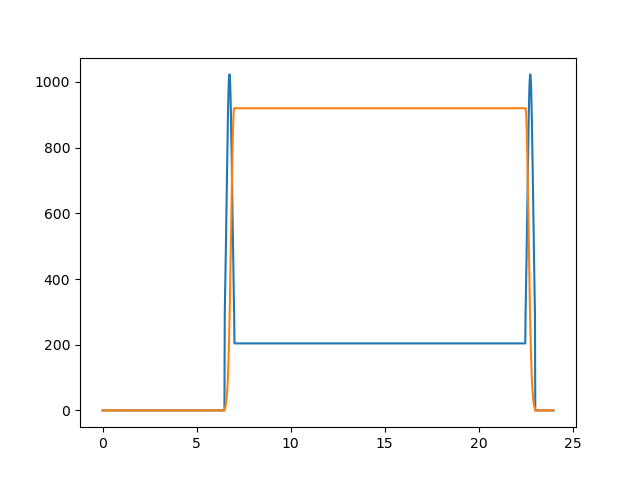
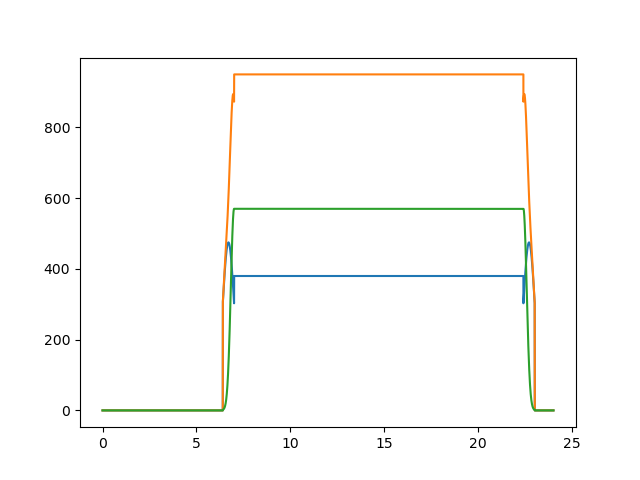
asd

diff --git a/sketch_feb09a/test_graph.py b/sketch_feb09a/test_graph.py
@@ -2,75 +2,80 @@ import math
 import numpy as np 
 import matplotlib.pyplot as plt
 
-power_output_a = []
-power_output_b = []
-x_axis = []
-
-with open("sim.txt") as f:
-    lines = f.readlines()
-    lines = [ x.replace("\n", '').split(' ') for x in lines]
-    print(lines)
-    x_axis = [ (float(x[0])/(60*60)) for x in lines ]
-    power_output_a = [ float(x[1]) for x in lines ]
-    power_output_b = [ float(x[2]) for x in lines ]
-# start = 0
-# stop = 24
-# step = 0.001
-
-# change_period = 0.5
-# cahnge_factor = change_period/10
-# day_factor_a = 0.2
-# day_factor_b = 0.9
-
-# sunrise_end = 7
-# sunrise_start = sunrise_end - change_period
-
-# sunset_end = 23
-# sunset_start = sunset_end - change_period
-
 # power_output_a = []
 # power_output_b = []
 # x_axis = []
 
-# power_min = 0
-# power_max = 1023
-
-# for x in np.arange(start, stop, step):
+# with open("sim.txt") as f:
+#     lines = f.readlines()
+#     lines = [ x.replace("\n", '').split(' ') for x in lines]
+#     print(lines)
+#     x_axis = [ (float(x[0])/(60*60)) for x in lines ]
+#     power_output_a = [ float(x[1]) for x in lines ]
+#     power_output_b = [ float(x[2]) for x in lines ]
     
-#     x_axis.append(x)
-    
-#     # generate sunrise
-#     if(x >= sunrise_start and x <= sunrise_end):
-#         pass
-#         x_local = (x - sunrise_start) 
-#         x_local_pow_a = change_period/2 - x_local
-#         power_output_a.append((power_max-power_min) * math.pow(math.e, (-(x_local_pow_a*x_local_pow_a)/cahnge_factor)))
-        
-#         x_local_pow_b = x_local - change_period
-#         power_output_b.append((power_max-power_min) * day_factor_b * math.pow(math.e, (-(x_local_pow_b*x_local_pow_b)/cahnge_factor)))
-        
-#     # generate sunset
-#     elif(x >= sunset_start and x <= sunset_end):
-#         pass
-#         x_local = (x - sunset_start) 
-#         x_local_pow_a = change_period/2 - x_local
-#         power_output_a.append((power_max-power_min) * math.pow(math.e, (-(x_local_pow_a*x_local_pow_a)/cahnge_factor)))
-        
-#         x_local_pow_b = x_local
-#         power_output_b.append((power_max-power_min) * day_factor_b * math.pow(math.e, (-(x_local_pow_b*x_local_pow_b)/cahnge_factor)))
+start = 0
+stop = 24
+step = 0.001
 
-#     # generate evning
-#     elif(x >= sunrise_start and x <= sunset_end):
-#         pass
-#         power_output_a.append((power_max-power_min)*day_factor_a)
-#         power_output_b.append((power_max-power_min)*day_factor_b)
-#     # generate night
-#     elif(True):
-#         pass
-#         power_output_a.append(power_min)
-#         power_output_b.append(power_min)
+change_period = 0.6
+cahnge_factor_a = change_period/3
+cahnge_factor_b = change_period/10
+day_factor_a = 0.4
+day_factor_b = 0.6
+sunrise_factor_a = 0.5
+
+sunrise_end = 7
+sunrise_start = sunrise_end - change_period
+
+sunset_end = 23
+sunset_start = sunset_end - change_period
+
+power_output_a = []
+power_output_b = []
+x_axis = []
+
+power_min = 0
+power_max = 950
+
+for x in np.arange(start, stop, step):
+    
+    x_axis.append(x)
+    
+    # generate sunrise
+    if(x >= sunrise_start and x <= sunrise_end):
+        pass
+        x_local = (x - sunrise_start) 
+        x_local_pow_a = change_period/2 - x_local
+        power_output_a.append((power_max-power_min) * (sunrise_factor_a) * math.pow(math.e, (-(x_local_pow_a*x_local_pow_a)/cahnge_factor_a)))
+        
+        x_local_pow_b = x_local - change_period
+        power_output_b.append((power_max-power_min) * day_factor_b * math.pow(math.e, (-(x_local_pow_b*x_local_pow_b)/cahnge_factor_b)))
+        
+    # generate sunset
+    elif(x >= sunset_start and x <= sunset_end):
+        pass
+        x_local = (x - sunset_start) 
+        x_local_pow_a = change_period/2 - x_local
+        power_output_a.append((power_max-power_min) * (sunrise_factor_a) * math.pow(math.e, (-(x_local_pow_a*x_local_pow_a)/cahnge_factor_a)))
+        
+        x_local_pow_b = x_local
+        power_output_b.append((power_max-power_min) * day_factor_b * math.pow(math.e, (-(x_local_pow_b*x_local_pow_b)/cahnge_factor_b)))
+
+    # generate evning
+    elif(x >= sunrise_start and x <= sunset_end):
+        pass
+        power_output_a.append((power_max-power_min)*day_factor_a)
+        power_output_b.append((power_max-power_min)*day_factor_b)
+    # generate night
+    elif(True):
+        pass
+        power_output_a.append(power_min)
+        power_output_b.append(power_min)
 
 # # print(power_output_a)
+sum1 = [x+y for x, y in zip(power_output_a, power_output_b)]
 plt.plot(x_axis, power_output_a)
+plt.plot(x_axis, sum1)
 plt.plot(x_axis, power_output_b)
 plt.savefig('test_graph_computed.png')
